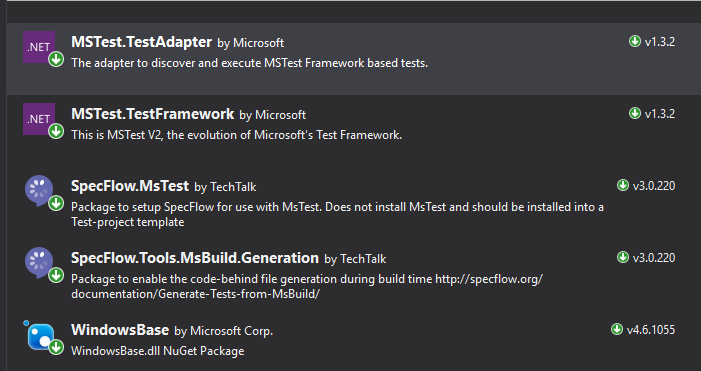
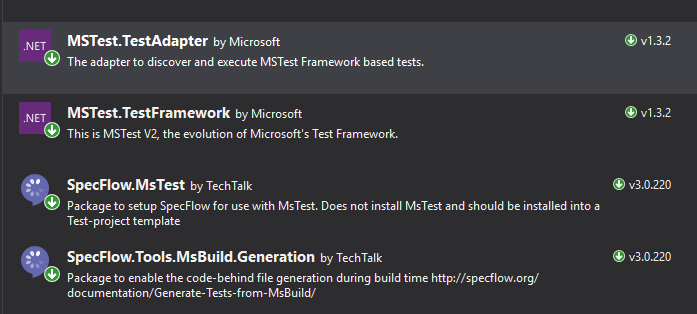
get rid of WindowsBase installation as it will not be necessary and it is part of the framework anyway

diff --git a/doc/live-coding-session.md b/doc/live-coding-session.md
@@ -60,7 +60,7 @@ By default, the project uses MSTest.
 
 3. Get rid of the `UnitTest1.cs` that is automatically added to the project.
 
-4. Install SpecFlow and `WindowsBase` in the `Spec` project:
+4. Install SpecFlow in the `Spec` project:
 
 ![Install SpecFlow](/doc/img/InstallSpecFlow.png)
 
